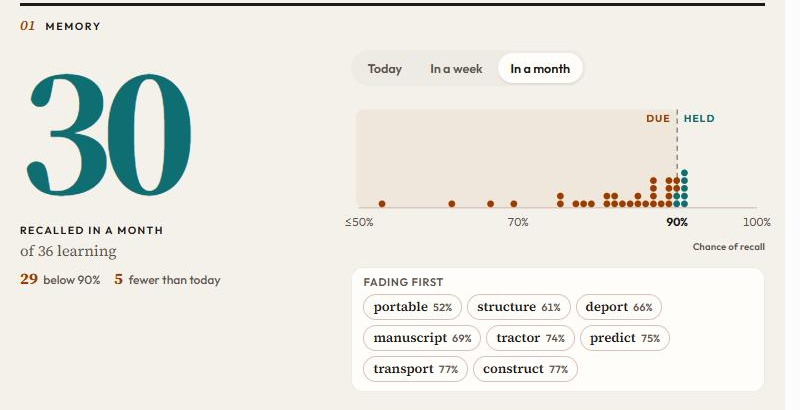
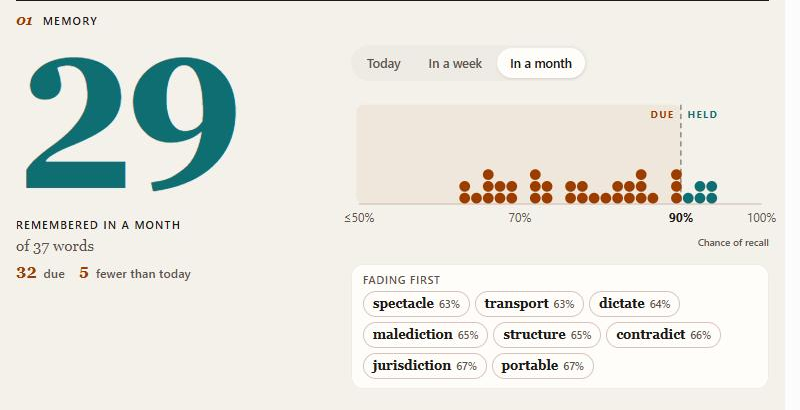
docs(review): screenshots and notes for the floating wheels and Memory labels
Replaces the Progress and Settings → Learn screenshots that still showed
"Recalled today" and the bordered band, and notes the band that appears
only while a wheel is held and the scroll latching.

diff --git a/docs/REVIEW.md b/docs/REVIEW.md
@@ -246,7 +246,7 @@ Since 2026-11-05 the page is set like a printed spread rather than a grid of equ
 
 Since 2026-11-06 every number sits below its rule and beside its label. Before, the Memory and Answers numbers rose through their rules on purpose and the masthead numeral ran into the sentence beside it, which read as a mistake. Each big number now carries its length (`--ch`) and takes the smaller of its usual size and what its column can hold, measured with CSS size containers on the page and on each section, so a four-digit streak or a notebook of thousands of words shrinks to fit instead of overflowing. The sentences became labels: "Day streak" with "Best 3", "Remembered" with "of 37 words" and "20 due", "Due in 7 days", "Mature" with "of 36 started", and a third gauge, Right, once today has answers.
 
-![Screenshot of the Progress page on a phone with made-up words: a 2-day streak as a rust numeral labelled Day streak, two gauges, and Memory with 35 recalled today below its rule](REVIEW.assets/progress-phone.png)
+![Screenshot of the Progress page on a phone with made-up words: a 27-day streak as a rust numeral labelled Day streak, two gauges, and Memory with 34 words remembered, of 37 words, 13 due](REVIEW.assets/progress-phone.png)
 
 *The top of Progress on a phone: the streak and its label, today's gauges, and Memory.*
 
@@ -280,7 +280,7 @@ Memory replaced "If you stop reviewing", which drew the average recall over a sl
 
 So Memory leads with the number of words you would recall, which is that sum, labelled with how many words are in rotation and how many are below 90% and so due. The label says "Remembered" because the number is a prediction; "Recalled today" read as answers given today. Every word is a dot placed by its chance of recall, teal while it is held and rust once it is due. Today, In a week and In a month move the dots to where they would be without review, and the label then says how many fewer words you would recall and how many would be due, so the cost of a week off is a number. Pointing at or tapping a dot, or walking the dots with the arrow keys, names the word, its recall, when it was last reviewed and the date it falls below 90%. In FSRS that date is the last review plus the word's stability, since stability is defined as the days until recall falls to 90%. The words fading first are listed under the strip.
 
-![Screenshot of Memory set to In a month with made-up words: the words recalled in a month, how many fewer than today, most dots rust and left of the 90% line, and the words fading first listed below](REVIEW.assets/progress-memory-month.png)
+![Screenshot of Memory set to In a month with made-up words: 29 words remembered in a month, 32 due and 5 fewer than today, most dots rust and left of the 90% line, and the words fading first listed below](REVIEW.assets/progress-memory-month.png)
 
 *In a month without review, most of the dots have crossed into the rust zone.*
 
@@ -294,17 +294,17 @@ The Today page has two charts of its own: reviews due over the next fourteen day
 
 Since 2026-11-05 the options for Learn live in Settings, on the desktop and the phone, and the Learn tab only shows what they settle. That is where every app we looked at keeps them: Anki's daily limits and timers are deck options ([manual](https://docs.ankiweb.net/deck-options.html)), Shanbay keeps 每日单词量 under 我的 and 学习设置, Duolingo keeps the daily goal and the speaking and listening switches in Settings, and WaniKani moved its daily lesson count to App Settings ([blog](https://blog.wanikani.com/posts/today-lessons-count-setting/)).
 
-![Screenshot of Settings → Learn on a phone: a card for My words whose wheel shows 15 with 14 and 16 above and below, and a card for the countdown on choice questions showing 11 seconds](REVIEW.assets/settings-learn-phone.png)
+![Screenshot of Settings → Learn on a phone: a card for My words whose wheel shows a large 12 with 11 and 13 fainter above and below, and the countdown card showing Off](REVIEW.assets/settings-learn-phone.png)
 
 *Settings → Learn on a phone: a wheel per list and one for the countdown.*
 
-![Screenshot of Settings → Learn in the desktop Settings window with made-up books: five cards with wheels for My words and four books, one set to 240, and the countdown card below](REVIEW.assets/settings-learn-desktop.png)
+![Screenshot of Settings → Learn in the desktop Settings window with made-up books: five cards with wheels for My words and four books in three columns, and the countdown card below set to 12 seconds](REVIEW.assets/settings-learn-desktop.png)
 
 *The desktop Settings window: the cards wrap to as many columns as fit.*
 
 New words a day has a card for My words and one for each word book you study, each with a number wheel from 1 to 999. Countdown on choice questions is a wheel that runs from Off through 5 to 30 seconds. Since 2026-11-06 the wheels replace the 5, 10, 20 and 40 buttons, the Other field and the countdown menu.
 
-The wheel (`packages/core/src/number-wheel.ts`) follows the pickers people set numbers with every day: the iOS wheel picker and the timer and alarm pickers in iOS and Android's Clock, where you drag a drum of numbers and it settles on one, and Material 3's time input, where the large hour and minute numbers can be tapped and typed. The value in the middle is set large in Source Serif at its display size and heaviest weight; its neighbours turn away above and below, smaller, lighter and fainter, and each sits as far from the next as their sizes need, so two numbers never overlap while the wheel turns. You can drag it or flick it, and a flick coasts and lands on a value with a slight spring. A mouse wheel moves one value a notch and a trackpad turns it continuously. Tapping above or below the middle steps one that way, and tapping the middle opens a field to type a number, which Enter or leaving the field keeps and Escape drops. From the keyboard it is a spinbutton in the WAI-ARIA sense ([APG](https://www.w3.org/WAI/ARIA/apg/patterns/spinbutton/)): the arrow keys step by one, Page Up and Page Down by 10 (5 on the countdown), Home and End go to the ends, and Enter, F2 or a digit opens the field. Keyboard steps do not animate. A value is saved once the wheel settles, or 350 milliseconds after the last key press, and saving does not repaint the page, so the wheel keeps focus. It reaches Learn as `learnPrefs` in `ReviewRenderOptions` (`packages/core/src/learn-prefs.ts`), and the countdown itself belongs to the question logic in `review-quiz.ts`. There is no switch for speaking questions, because none exist yet. The stored `speaking` preference and the microphone check (`microphoneAvailable`) are kept, and `SPEAKING_QUESTIONS` in `settings-learn.ts` turns the switch on once speaking questions are built; it will then appear only on a device with a microphone Phevere may use. The countdown applies to the questions answered by picking one of four (`COUNTDOWN_KINDS`): a thin bar under the instruction empties over the chosen seconds, and when it runs out the question counts as not known (Again) and says "Time is up" (`armCountdown`, `expireCountdown`). Only time on screen counts: a learner who opens Settings or another tab, or puts the phone away, comes back to the seconds that were left, and a repaint resumes the bar where it stood. On a question that plays the word, the bar stays full until the word has played or failed to load (`markHeard`, at most `COUNTDOWN_WAIT_MS`, 8 seconds). Typed questions have no countdown, since their time already sets the grade. A round under way is not restarted when a goal changes.
+The wheel (`packages/core/src/number-wheel.ts`) follows the pickers people set numbers with every day: the iOS wheel picker and the timer and alarm pickers in iOS and Android's Clock, where you drag a drum of numbers and it settles on one, and Material 3's time input, where the large hour and minute numbers can be tapped and typed. The value in the middle is set large in Source Serif at its display size and heaviest weight; its neighbours turn away above and below, smaller, lighter and fainter, and each sits as far from the next as their sizes need, so two numbers never overlap while the wheel turns. At rest only the type marks the middle value; a soft rust band appears behind it while you hold the wheel, type into it or reach it with the keyboard. You can drag it or flick it, and a flick coasts and lands on a value with a slight spring. A mouse wheel moves one value a notch and a trackpad turns it continuously, but only when the scroll starts on the wheel; a page scroll that passes over a card keeps scrolling the page, the way browsers latch a scroll to the scroller it began in. Tapping above or below the middle steps one that way, and tapping the middle opens a field to type a number, which Enter or leaving the field keeps and Escape drops. From the keyboard it is a spinbutton in the WAI-ARIA sense ([APG](https://www.w3.org/WAI/ARIA/apg/patterns/spinbutton/)): the arrow keys step by one, Page Up and Page Down by 10 (5 on the countdown), Home and End go to the ends, and Enter, F2 or a digit opens the field. Keyboard steps do not animate. A value is saved once the wheel settles, or 350 milliseconds after the last key press, and saving does not repaint the page, so the wheel keeps focus. It reaches Learn as `learnPrefs` in `ReviewRenderOptions` (`packages/core/src/learn-prefs.ts`), and the countdown itself belongs to the question logic in `review-quiz.ts`. There is no switch for speaking questions, because none exist yet. The stored `speaking` preference and the microphone check (`microphoneAvailable`) are kept, and `SPEAKING_QUESTIONS` in `settings-learn.ts` turns the switch on once speaking questions are built; it will then appear only on a device with a microphone Phevere may use. The countdown applies to the questions answered by picking one of four (`COUNTDOWN_KINDS`): a thin bar under the instruction empties over the chosen seconds, and when it runs out the question counts as not known (Again) and says "Time is up" (`armCountdown`, `expireCountdown`). Only time on screen counts: a learner who opens Settings or another tab, or puts the phone away, comes back to the seconds that were left, and a repaint resumes the bar where it stood. On a question that plays the word, the bar stays full until the word has played or failed to load (`markHeard`, at most `COUNTDOWN_WAIT_MS`, 8 seconds). Typed questions have no countdown, since their time already sets the grade. A round under way is not restarted when a goal changes.
 
 ## What is left open
 

diff --git a/CHANGELOG.md b/CHANGELOG.md
@@ -9,7 +9,7 @@ and this project adheres to [Semantic Versioning](https://semver.org/spec/v2.0.0
 
 ### Changed
 
-- Settings → Learn (2026-11-06): new words a day and the countdown on choice questions are set on number wheels instead of the 5, 10, 20 and 40 buttons, the Other field and the countdown menu. Each list and the countdown has a card with one large number and its neighbours above and below. Drag or flick it up and down, scroll it with the mouse wheel or a trackpad, tap above or below to step one, or tap the number to type any value. From the keyboard, the arrow keys step by one, Page Up and Page Down by 10 (5 on the countdown), and Home and End go to the ends. New words a day still runs from 1 to 999, and the countdown from Off through 5 to 30 seconds, now in steps of one second. Desktop and phone alike.
+- Settings → Learn (2026-11-06): new words a day and the countdown on choice questions are set on number wheels instead of the 5, 10, 20 and 40 buttons, the Other field and the countdown menu. Each list and the countdown has a card with one large number and its neighbours above and below. Drag or flick it up and down, scroll it with the mouse wheel or a trackpad (a page scroll that passes over a card keeps scrolling the page), tap above or below to step one, or tap the number to type any value. From the keyboard, the arrow keys step by one, Page Up and Page Down by 10 (5 on the countdown), and Home and End go to the ends. New words a day still runs from 1 to 999, and the countdown from Off through 5 to 30 seconds, now in steps of one second. Desktop and phone alike.
 - Learn → Progress (2026-11-06): the large numbers no longer run into the rules, the labels or each other, at any window width and on the phone; a long number such as a four-digit streak shrinks to fit its column. The sentences are gone. Each number has a short label under it, such as "Day streak" with "Best 3", "Remembered" with "of 37 words" and "20 due", "Due in 7 days" and "Mature" with "of 36 started". Today's new words and reviews sit beside the streak as two bars, with a third for the share answered right once you have answered something.
 
 ## [4.2.0] - 2026-11-06
